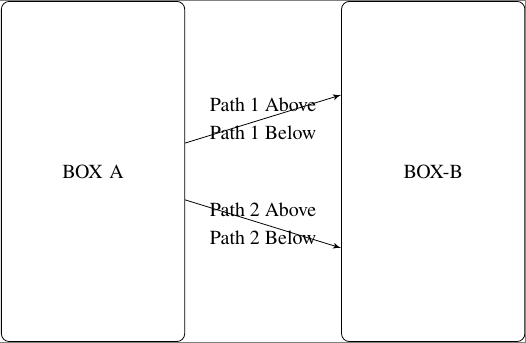
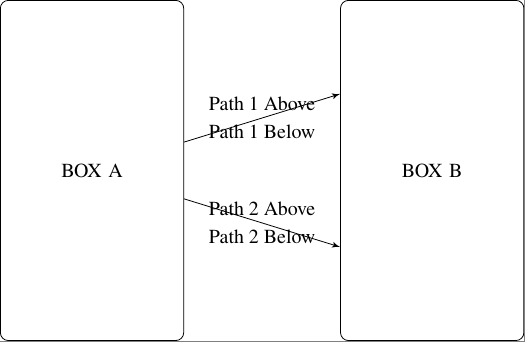
ugh. typo.

Changed region(s): [[0.0, 0.0, 1.0, 1.0], [0.7619, 0.4678, 0.8838, 0.5263], [0.1219, 0.4678, 0.2438, 0.5263]]

diff --git a/stackexchange.tex/q-two-paths-between-same-pair-of-flowchart-objects/mwe.tex b/stackexchange.tex/q-two-paths-between-same-pair-of-flowchart-objects/mwe.tex
@@ -12,7 +12,7 @@
   \begin{tikzpicture}[node distance = 6em, auto]
     
     \node [box] (box-a) {BOX A};
-    \node [box, right of=box-a, node distance=6cm] (box-b) {BOX-B};
+    \node [box, right of=box-a, node distance=6cm] (box-b) {BOX B};
     
     \path [line] ([yshift=+5cm] box-a) -- node [midway, above] {Path 1 Above} node [midway, below] {Path 1 Below} ([yshift=+5cm] box-b);
     \path [line] ([yshift=-5cm] box-a) -- node [midway, above] {Path 2 Above} node [midway, below] {Path 2 Below} ([yshift=-5cm] box-b);
